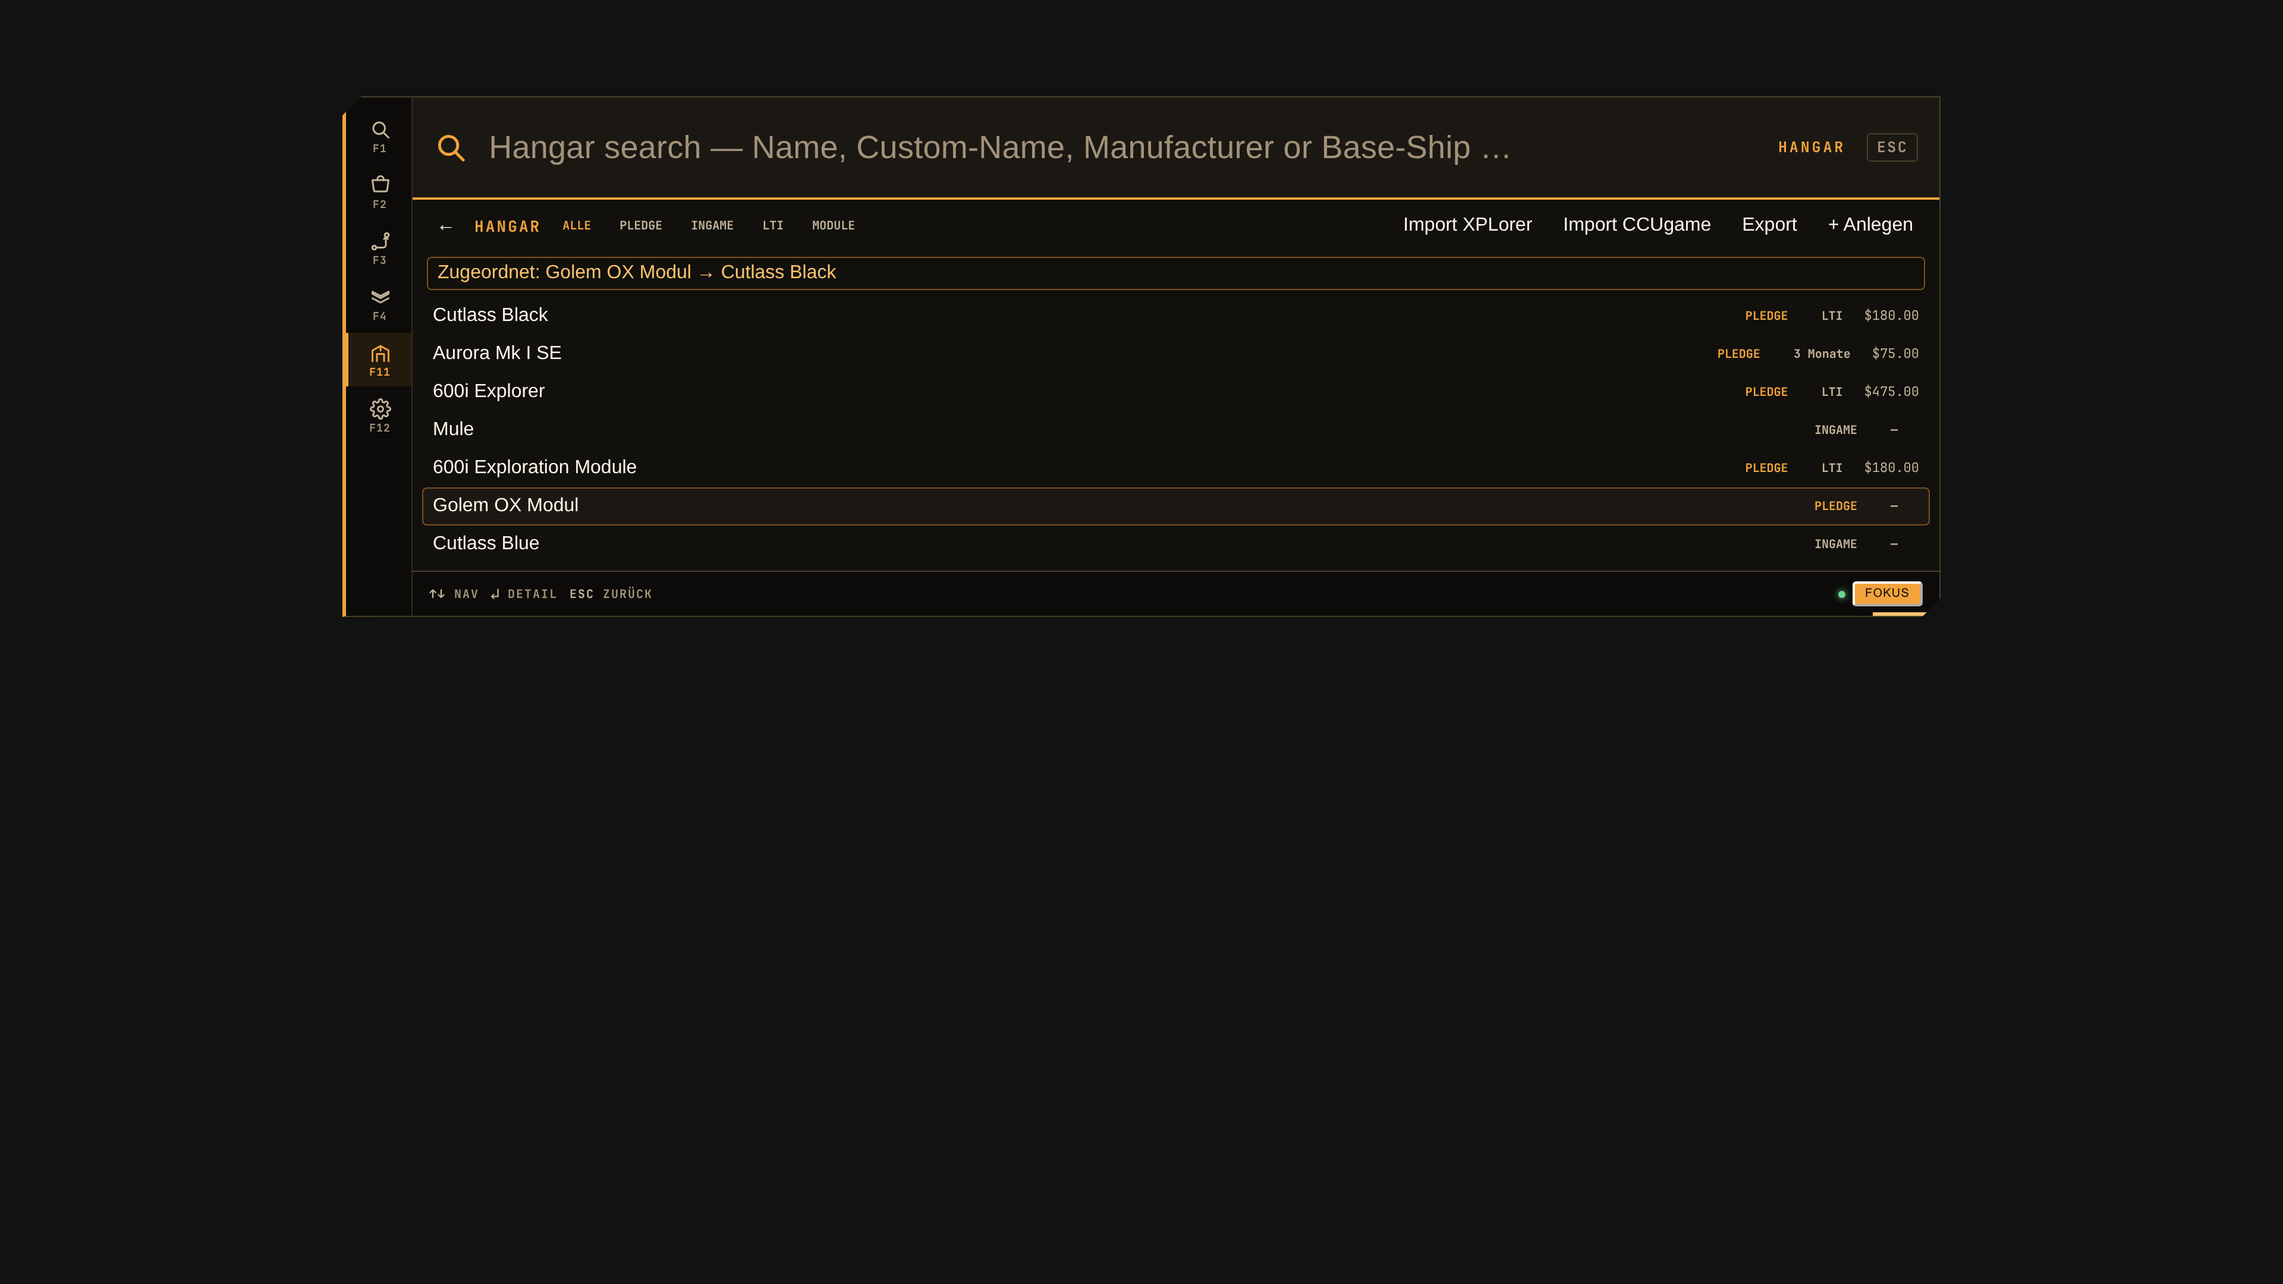
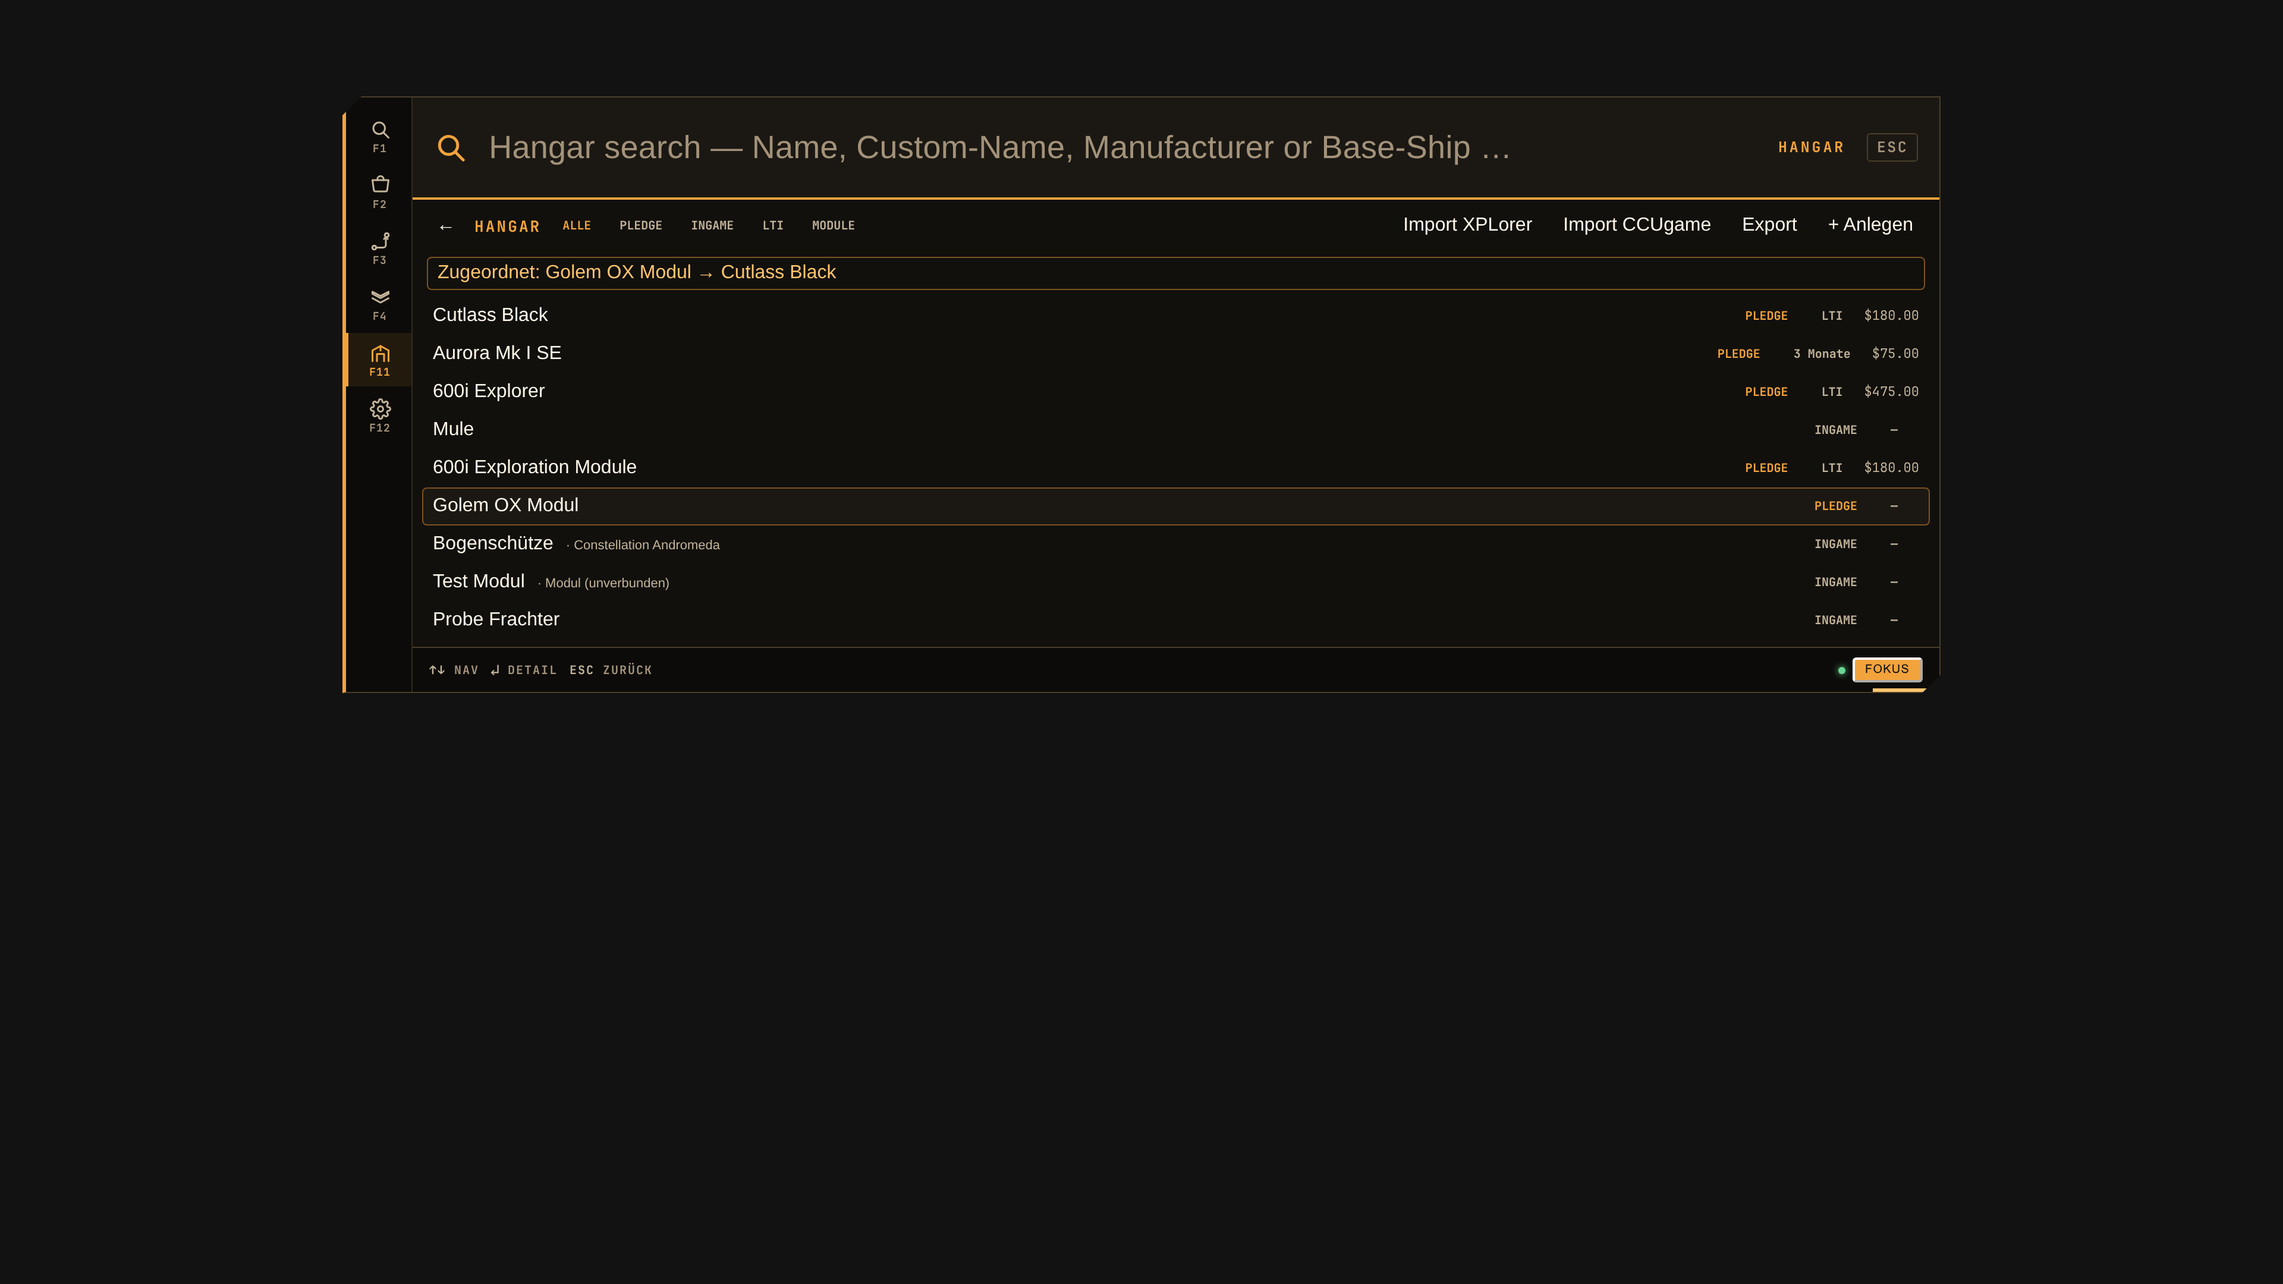
R2 review fixes: delete-confirm im Detail-View, Modul-Zuordnung speichert Modellnamen
- D1: Confirm-Modal aus {#if hangarFormOpen} herausgezogen — 'Löschen' im
  Detail-View zeigt jetzt die 2-Schritt-Bestätigung (vorher tot).
- D2: hangarAssignOpts value=Modellname + hangarPickAssign (Pick setzt
  LABEL ins Binding); hangarBaseSuggest liefert Modellnamen;
  hangarModulesOf matcht zusätzlich Legacy-Display-Namen.
- Probe erweitert: Steps 11 (Delete-Flow) + 12 (Zuordnung custom_name),
  Seed +2 Einträge — 34/34 PASS.

Changed region(s): [[0.1875, 0.4032, 0.2812, 0.4963], [0.7812, 0.4343, 0.8438, 0.5583], [0.25, 0.4963, 0.2812, 0.5273]]

diff --git a/src/routes/+page.svelte b/src/routes/+page.svelte
@@ -679,7 +679,13 @@ const MARKET_STALE_SECS = 300; // P3: Market-Daten älter als 5 min → Hintergr
 	}
 
 	function hangarModulesOf(shipName: string) {
-		return hangarItems.filter((i) => i.entity_type === 'module' && i.base_ship === shipName);
+		// Review-Fix (R2-D2): Legacy-Zeilen, deren base_ship als Display-Name
+		// (custom_name) gespeichert wurde, weiterhin matchen — der Zuordnungs-
+		// Typeahead schreibt jetzt den Modellnamen.
+		const legacyDn = hangarShips
+			.filter((s) => s.name === shipName && s.custom_name)
+			.map((s) => s.custom_name as string);
+		return hangarItems.filter((i) => i.entity_type === 'module' && (i.base_ship === shipName || legacyDn.includes(i.base_ship ?? '')));
 	}
 
 	// R2 (t_2158474c, Punkt 6): Datumsformat dd.mm.jjjj — Anzeige UND Eingabe.
@@ -848,15 +854,17 @@ const MARKET_STALE_SECS = 300; // P3: Market-Daten älter als 5 min → Hintergr
 	function hangarBaseSuggest() {
 		// Base-Ship-Autocomplete from the ALREADY REGISTERED Hangar entries
 		// (Card: "Autocomplete from those already entered in the Hangar").
+		// Review-Fix (R2-D2): Wert = MODELLNAME (s.name) — hangarModulesOf
+		// matcht base_ship gegen i.name; Display-Namen nur als Suchtext.
 		const q = hangarForm.base_ship.trim().toLowerCase();
 		const out: string[] = [];
 		const seen = new Set<string>();
 		for (const s of hangarShips) {
 			const dn = hangarDisplayName(s);
 			const hay = `${s.name} ${s.custom_name}`.toLowerCase();
-			if ((q === '' || hay.includes(q) || s.manufacturer.toLowerCase().includes(q)) && !seen.has(dn)) {
-				seen.add(dn);
-				out.push(dn);
+			if ((q === '' || hay.includes(q) || s.manufacturer.toLowerCase().includes(q)) && !seen.has(s.name)) {
+				seen.add(s.name);
+				out.push(s.name);
 				if (out.length >= 10) break;
 			}
 		}
@@ -899,6 +907,13 @@ const MARKET_STALE_SECS = 300; // P3: Market-Daten älter als 5 min → Hintergr
 			}
 		}
 		return out;
+	}
+	// Review-Fix (R2-D2): Der Typeahead-Pick setzt das bind:value auf den
+	// LABEL (Display-Name) — die Zuordnung braucht den MODELLNAMEN
+	// (hangarModulesOf matcht base_ship gegen i.name).
+	function hangarPickAssign(_v: string, label: string) {
+		const s = hangarShips.find((x) => x.name === label || hangarDisplayName(x) === label);
+		if (s) hangarAssignBase = s.name;
 	}
 	const hangarModOpts = $derived(hangarModuleSuggest().map((n) => ({ value: n, label: n })));
 	function hangarPickName(v: string) {
@@ -2892,8 +2907,12 @@ const MARKET_STALE_SECS = 300; // P3: Market-Daten älter als 5 min → Hintergr
 				return q === '' || hay.includes(q) || s.manufacturer.toLowerCase().includes(q);
 			})
 			.slice(0, 10)
-			.map((s) => ({ value: hangarDisplayName(s), label: hangarDisplayName(s) }))
-	);
+			// Review-Fix (R2-D2): value = MODELLNAME (s.name), nicht Display-Name —
+			// hangarModulesOf matcht base_ship gegen i.name; custom_name-Schiffe
+			// (z. B. „Riftwalker“) würden das Modul sonst verlieren. Label bleibt
+			// der Display-Name.
+			.map((s) => ({ value: s.name, label: hangarDisplayName(s) }))
+			);
 
 	// P15b (Karte t_5fbd43b6): Type-ahead — Tippen in dem Schiff-Fild narower die
 	// <select> (Substring über Name/Custom-Name, case-insensitive). Genaw eine
@@ -4473,7 +4492,7 @@ const MARKET_STALE_SECS = 300; // P3: Market-Daten älter als 5 min → Hintergr
 								<div class="h">Modul (unverbunden)</div>
 								<div class="hmodempty">Dieses Modul ist keinem Schiff zugeordnet.</div>
 								<div class="hmod-add">
-									<RoutesTypeahead bind:value={hangarAssignBase} options={hangarAssignOpts} fullWidth ariaLabel="Basisschiff zuordnen" placeholder="Basisschiff suchen …" onselect={() => {}} />
+									<RoutesTypeahead bind:value={hangarAssignBase} options={hangarAssignOpts} fullWidth ariaLabel="Basisschiff zuordnen" placeholder="Basisschiff suchen …" onselect={hangarPickAssign} />
 									<button type="button" class="hbtn" disabled={hangarBusy || !hangarAssignBase.trim()} onclick={() => hangarModuleAssign(hangarDetail!)}>Zuordnen</button>
 								</div>
 							</div>
@@ -4551,41 +4570,44 @@ const MARKET_STALE_SECS = 300; // P3: Market-Daten älter als 5 min → Hintergr
 							<button type="button" class="hbtn" onclick={hangarCancelEdit}>Abbrechen</button>
 						</div>
 					</form>
-					{#if hangarConfirm}
-						<!-- R2 (Punkt 1): 2-Schritt-Bestätigung (confirm-modal im
-						     shell-anchored Scrim — NICHT fixed am Viewport, QW-5-Lektion). -->
-						<div class="advert-scrim" style="z-index: 210" role="presentation">
-							<div class="confirm-modal" role="dialog" aria-modal="true" aria-label="Bestätigung">
-								<div class="center" style="padding: 0 0 10px">
-									<div class="big" style="color: var(--alert)">
-										{hangarConfirm.kind === 'delete' ? 'EINTRAG LÖSCHEN?' : hangarEdit ? 'ÄNDERUNGEN SPEICHERN?' : 'EINTRAG ANLEGEN?'}
-									</div>
-								</div>
-								{#if hangarConfirm.kind === 'delete'}
-									<div class="c-row"><b>Name</b><span>{hangarDisplayName(hangarDetail ?? hangarForm)}</span></div>
-									<div class="sm" style="margin-top: 8px; color: var(--fgdim)">Der Eintrag wird aus dem Hangar GELÖSCHT.</div>
-								{:else}
-									<div class="c-row"><b>Name</b><span>{hangarForm.name}</span></div>
-									<div class="c-row"><b>Typ</b><span>{hangarForm.entity_type === 'vehicle' ? 'Fahrzeug' : 'Schiff'}</span></div>
-									<div class="c-row"><b>Herkunft</b><span>{hangarForm.origin === 'pledge' ? 'Pledge' : 'Ingame'}</span></div>
-									<div class="c-row"><b>Versicherung</b><span>{hangarFormIns || 'Ohne'}</span></div>
-									<div class="c-row"><b>Datum</b><span>{hangarFormDate || '—'}</span></div>
-									<div class="c-row"><b>Preis</b><span>{hangarFormPrice ? `$${hangarFormPrice}` : '—'}</span></div>
-									<div class="sm" style="margin-top: 8px; color: var(--fgdim)">Eingaben sind bis zur Entscheidung gesperrt.</div>
-								{/if}
-								<div class="mbar2" style="margin-top: 12px; justify-content: center; border: 0; padding: 0; background: transparent">
-									{#if hangarConfirm.kind === 'delete'}
-										<button type="button" class="btn btn-danger" disabled={hangarBusy} onclick={() => hangarDetail && hangarDoDelete(hangarDetail)}>JA, LÖSCHEN</button>
-									{:else}
-										<button type="button" class="btn" disabled={hangarBusy} onclick={() => void hangarSaveForm()}>JA, SPEICHERN</button>
-									{/if}
-									<button type="button" class="btn-ghost" disabled={hangarBusy} onclick={() => (hangarConfirm = null)}>Abbrechen</button>
-								</div>
-							</div>
-						</div>
-					{/if}
+			</div>
+		{/if}
+		{#if hangarConfirm}
+		<!-- R2 (Punkt 1): 2-Schritt-Bestätigung (confirm-modal im
+		shell-anchored Scrim — NICHT fixed am Viewport, QW-5-Lektion).
+		Review-Fix (R2-D1): aus {#if hangarFormOpen} herausgezogen — der
+		Confirm muss auch im DETAIL-View erscheinen (Löschen ohne
+		geöffnetes Formular; vorher war der Lösch-Flow tot). -->
+		<div class="advert-scrim" style="z-index: 210" role="presentation">
+		<div class="confirm-modal" role="dialog" aria-modal="true" aria-label="Bestätigung">
+			<div class="center" style="padding: 0 0 10px">
+				<div class="big" style="color: var(--alert)">
+					{hangarConfirm.kind === 'delete' ? 'EINTRAG LÖSCHEN?' : hangarEdit ? 'ÄNDERUNGEN SPEICHERN?' : 'EINTRAG ANLEGEN?'}
 				</div>
+			</div>
+			{#if hangarConfirm.kind === 'delete'}
+				<div class="c-row"><b>Name</b><span>{hangarDisplayName(hangarDetail ?? hangarForm)}</span></div>
+				<div class="sm" style="margin-top: 8px; color: var(--fgdim)">Der Eintrag wird aus dem Hangar GELÖSCHT.</div>
+			{:else}
+				<div class="c-row"><b>Name</b><span>{hangarForm.name}</span></div>
+				<div class="c-row"><b>Typ</b><span>{hangarForm.entity_type === 'vehicle' ? 'Fahrzeug' : 'Schiff'}</span></div>
+				<div class="c-row"><b>Herkunft</b><span>{hangarForm.origin === 'pledge' ? 'Pledge' : 'Ingame'}</span></div>
+				<div class="c-row"><b>Versicherung</b><span>{hangarFormIns || 'Ohne'}</span></div>
+				<div class="c-row"><b>Datum</b><span>{hangarFormDate || '—'}</span></div>
+				<div class="c-row"><b>Preis</b><span>{hangarFormPrice ? `$${hangarFormPrice}` : '—'}</span></div>
+				<div class="sm" style="margin-top: 8px; color: var(--fgdim)">Eingaben sind bis zur Entscheidung gesperrt.</div>
 			{/if}
+			<div class="mbar2" style="margin-top: 12px; justify-content: center; border: 0; padding: 0; background: transparent">
+				{#if hangarConfirm.kind === 'delete'}
+					<button type="button" class="btn btn-danger" disabled={hangarBusy} onclick={() => hangarDetail && hangarDoDelete(hangarDetail)}>JA, LÖSCHEN</button>
+				{:else}
+					<button type="button" class="btn" disabled={hangarBusy} onclick={() => void hangarSaveForm()}>JA, SPEICHERN</button>
+				{/if}
+				<button type="button" class="btn-ghost" disabled={hangarBusy} onclick={() => (hangarConfirm = null)}>Abbrechen</button>
+			</div>
+		</div>
+		</div>
+		{/if}
 		{:else if inConfig}
 			<!-- Config-View: eigenes View in der Palette (wie die Detail-"Seite").
 			     Esc/zurück-Pfeil → zurück zur Suche; kein neues Fenster. -->

diff --git a/docs/scripts/r2-hangar-rework-probe.py b/docs/scripts/r2-hangar-rework-probe.py
@@ -27,8 +27,13 @@ Checks:
   9. Unverbundenes Modul: Detail zeigt 'Modul (unverbunden)' + Zuordnen
      (Basisschiff-Typeahead) → hangar_update setzt base_ship.
  10. Bearbeiten öffnet dasselbe Popup mit dd.mm.jjjj-Datum.
+ 11. (R2-D1 Review-Fix) Delete-Flow: 'Löschen' im Detail-View öffnet den
+     Confirm-Modal (EINTRAG LÖSCHEN), JA löscht den Eintrag.
+ 12. (R2-D2 Review-Fix) Zuordnung auf custom_name-Schiff: Typeahead findet
+     den Custom-Namen, base_ship wird als MODELLNAME gespeichert, Ship-
+     Details zeigen das Modul.
 
-Screenshots: docs/screenshots/hangar-rework/01…10-*.png
+Screenshots: docs/screenshots/hangar-rework/01…12-*.png
 """
 import asyncio, base64, json, os, pathlib
 import websockets, urllib.request
@@ -60,6 +65,10 @@ ITEMS = [
     mk(4, "Mule", "ingame", None, "vehicle", manufacturer="Drake"),
     mk(5, "600i Exploration Module", "pledge", "LTI", "module", base_ship="600i Explorer", price=180.0, date="2024-07-12"),
     mk(6, "Golem OX Modul", "pledge", None, "module"),
+    # Review-Fix-Abdeckung: Schiff MIT custom_name + zweites unverbundenes
+    # Modul für den Zuordnungs-Test (R2-D2: base_ship muss Modellname sein).
+    mk(7, "Constellation Andromeda", "ingame", None, "ship", manufacturer="RSI", custom_name="Bogenschütze"),
+    mk(8, "Test Modul", "ingame", None, "module"),
 ]
 N_ROWS = len(ITEMS)
 
@@ -227,6 +236,11 @@ async def main():
                      "const i=f.querySelector('input'); i.focus(); i.value='31.01.2025';"
                      "i.dispatchEvent(new Event('input',{bubbles:true})); return 'OK'; })()")
             await asyncio.sleep(0.2)
+            # Review-Fix (R2-D1): eindeutiger Name für den Lösch-Test (Step 11).
+            await js("(() => { const f=[...document.querySelectorAll('.hform-modal .trk-field')].find(x=>x.textContent.includes('Name'));"
+                     "const i=f.querySelector('input'); i.focus(); i.value='Probe Frachter';"
+                     "i.dispatchEvent(new Event('input',{bubbles:true})); return 'OK'; })()")
+            await asyncio.sleep(0.2)
             await js("document.querySelector('.hform-modal button[type=submit]').click()")
             await asyncio.sleep(0.5)
             conf = await js("(() => { const c=document.querySelector('.advert-scrim .confirm-modal'); return c ? c.innerText.slice(0, 200) : 'NOCONF'; })()")
@@ -287,7 +301,7 @@ async def main():
             # ---- 9: Unverbundenes Modul → Zuordnen ----
             unbound = await js("(() => { const r=[...document.querySelectorAll('.hangar-list .hrow')].find(b=>b.innerText.includes('unverbunden')); return r ? r.innerText.trim() : 'MISSING'; })()")
             check("unbound-module-labeled", "unverbunden" in str(unbound), unbound)
-            await js("[...document.querySelectorAll('.hangar-list .hrow')].find(b=>b.innerText.includes('unverbunden')).click()")
+            await js("[...document.querySelectorAll('.hangar-list .hrow')].find(b=>b.innerText.includes('Golem')).click()")
             await asyncio.sleep(0.5)
             assign = await js("(() => { const d=document.querySelector('.hangar-detail'); return d ? d.innerText : 'NODETAIL'; })()")
             check("unbound-detail-shows-assign", "Modul (unverbunden)" in str(assign) and "Zuordnen" in str(assign), str(assign)[:200])
@@ -314,6 +328,44 @@ async def main():
             # Abbrechen (Delete-Confirm-Pfad wird über denselben Mechanismus bedient)
             await js("[...document.querySelectorAll('.hform-modal .hform-foot .hbtn')].find(b=>b.innerText.includes('Abbrechen')).click()")
             await asyncio.sleep(0.3)
+
+            # ---- 11: Review-Fix (R2-D1) Delete-Flow — Confirm auch im Detail-View ----
+            # Zurück zur Liste (Edit-Popup wurde gerade abgebrochen, Detail-View aktiv).
+            await key("Escape")
+            await asyncio.sleep(0.4)
+            await js("[...document.querySelectorAll('.hangar-list .hrow')].find(b=>b.innerText.includes('Probe Frachter')).click()")
+            await asyncio.sleep(0.5)
+            await js("[...document.querySelectorAll('.hangar-detail .hbtn')].find(b=>b.innerText.includes('Löschen')).click()")
+            await asyncio.sleep(0.4)
+            dconf = await js("(() => { const c=document.querySelector('.advert-scrim .confirm-modal'); return c ? c.innerText.slice(0, 200) : 'NOCONFIRM'; })()")
+            check("delete-confirm-modal-in-detail", "EINTRAG LÖSCHEN" in str(dconf) and "Probe Frachter" in str(dconf), dconf)
+            await shot("11-delete-confirm.png")
+            await js("[...document.querySelectorAll('.confirm-modal button')].find(b=>b.innerText.includes('JA, LÖSCHEN')).click()")
+            await asyncio.sleep(0.8)
+            gone = await js("(() => { const it = window.__HANGAR_DATA__.find(i=>i.name==='Probe Frachter'); return it ? 'STILL-THERE' : 'DELETED'; })()")
+            check("delete-removes-entry", gone == "DELETED", gone)
+
+            # ---- 12: Review-Fix (R2-D2) Zuordnung speichert MODELLNAME ----
+            await js("[...document.querySelectorAll('.hangar-list .hrow')].find(b=>b.innerText.includes('Test Modul')).click()")
+            await asyncio.sleep(0.5)
+            await js("(() => { const f=document.querySelector('.hd-mods .hmod-add .rta-input'); f.focus(); f.value='Bogenschütze'; f.dispatchEvent(new Event('input',{bubbles:true})); return 'OK'; })()")
+            await asyncio.sleep(0.4)
+            citems = await js("[...document.querySelectorAll('.hd-mods .hmod-add .rta-dd .rta-item')].map(b=>b.innerText.trim())")
+            check("assign-typeahead-finds-custom-name", bool(citems) and any("Bogenschütze" in s for s in (citems or [])), str(citems))
+            if isinstance(citems, list) and citems:
+                await js("[...document.querySelectorAll('.hd-mods .hmod-add .rta-dd .rta-item')][0].click()")
+                await asyncio.sleep(0.3)
+            await js("[...document.querySelectorAll('.hd-mods .hmod-add .hbtn')].find(b=>b.innerText.includes('Zuordnen')).click()")
+            await asyncio.sleep(0.8)
+            cbase = await js("(() => { const it = window.__HANGAR_DATA__.find(i=>i.id===8); return it ? (it.base_ship || 'EMPTY') : 'MISSING'; })()")
+            check("assign-stores-model-name", cbase == "Constellation Andromeda", cbase)
+            await js("[...document.querySelectorAll('.hangar-list .hrow')].find(b=>b.innerText.includes('Bogenschütze')).click()")
+            await asyncio.sleep(0.5)
+            cmods = await js("(() => { const s=document.querySelector('.hd-mods .h'); return s ? s.innerText : 'NOMODS'; })()")
+            check("custom-name-ship-shows-module", "Module (1)" in str(cmods), cmods)
+            await shot("12-module-assigned-customname.png")
+            await js("[...document.querySelectorAll('.hd-mods .hmod-x')][0].click()")
+            await asyncio.sleep(0.5)
     finally:
         for p_ in (server, proc):
             try:
